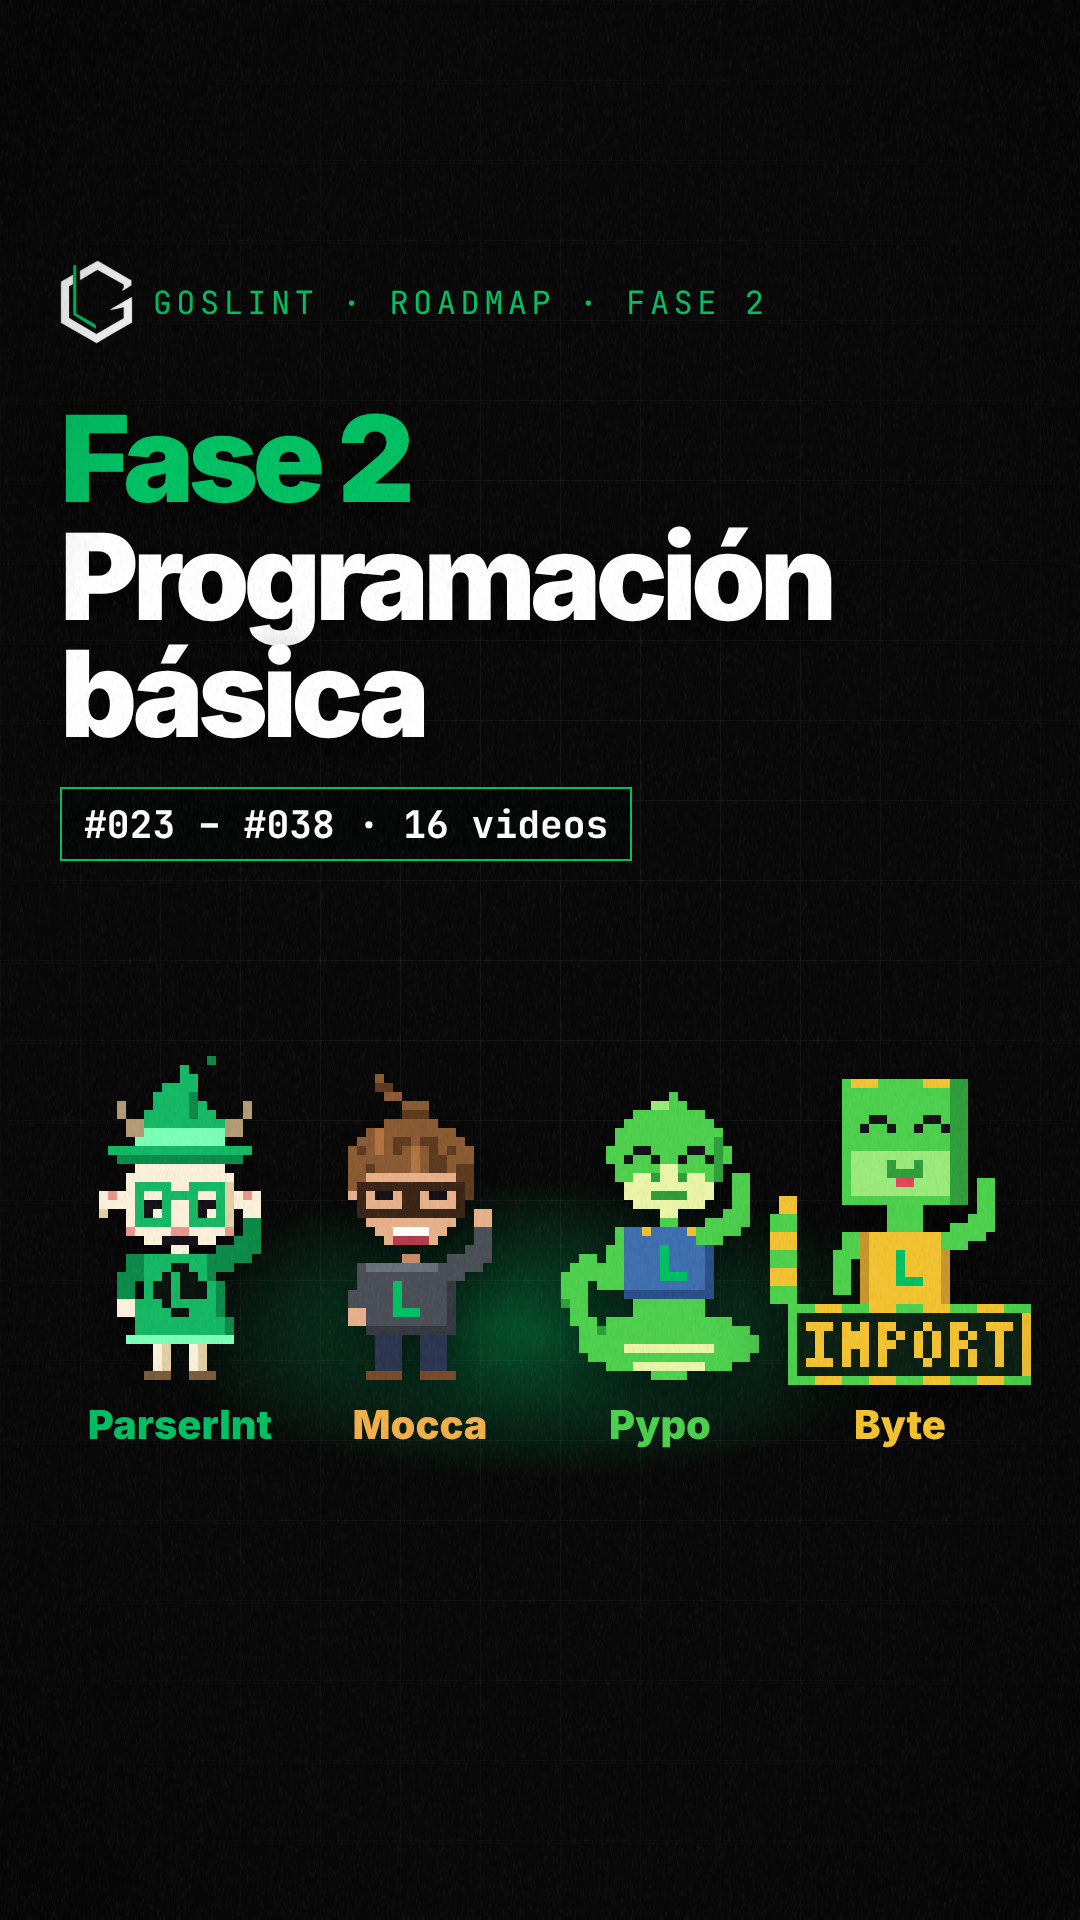
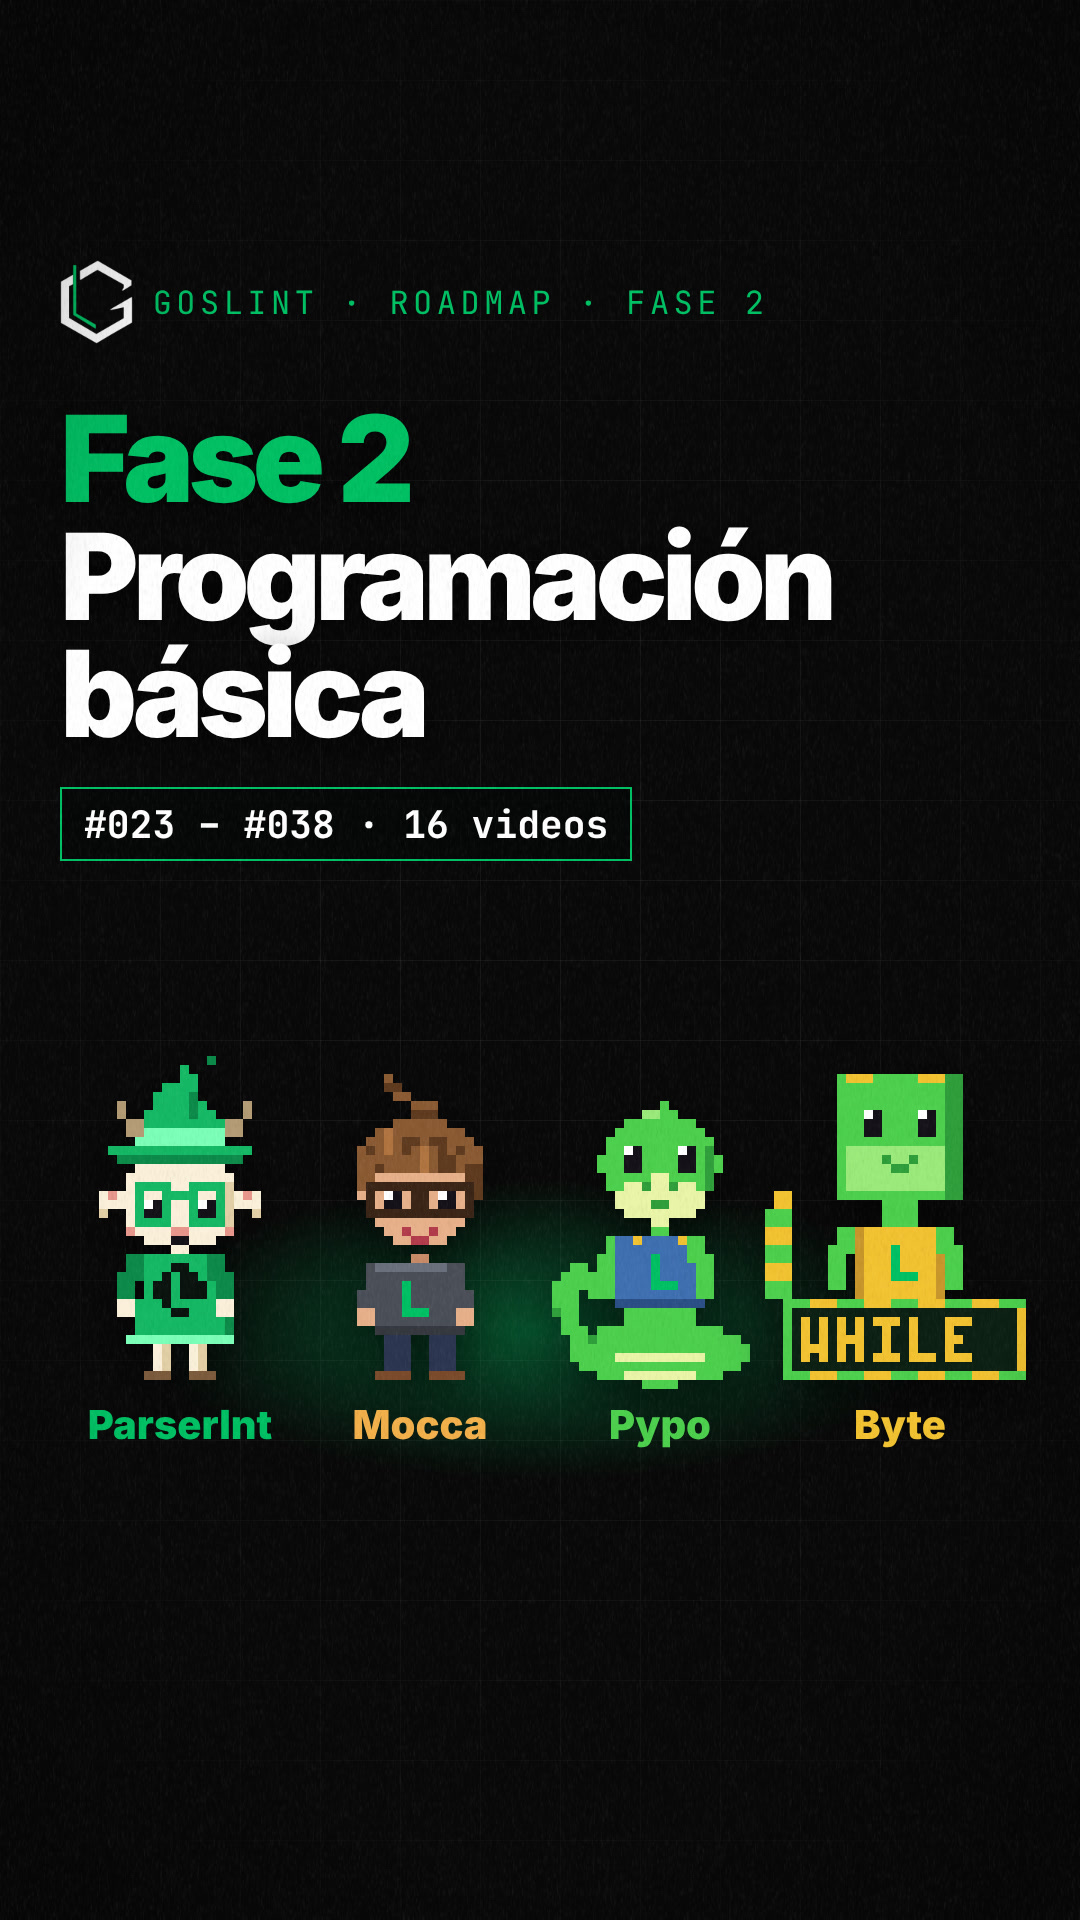
feat(video): usar las animaciones nuevas de las mascotas en los videos

Changed region(s): [[0.4889, 0.5625, 0.9778, 0.7188], [0.3056, 0.5625, 0.4583, 0.7188], [0.1833, 0.625, 0.2444, 0.6875]]

diff --git a/commons/src/mascotas.tsx b/commons/src/mascotas.tsx
@@ -2,6 +2,7 @@ import React from 'react';
 import {Img, staticFile, useCurrentFrame} from 'remotion';
 import {pop, tween} from './lib';
 import SIZES from './mascotas-sizes.json';
+import CLIPS_JSON from './mascotas-clips.json';
 
 /**
  * Las otras mascotas del universo Goslint (sprites 1x exportados del kit de la rama `mascotas`,
@@ -30,9 +31,51 @@ export const MASCOTAS: Record<MascotaId, {name: string; role: string; color: str
 
 const SZ = SIZES as unknown as Record<string, [number, number]>;
 
-/** Archivo disponible para la pose (Vee y Marco solo tienen reposo). */
+/** Sprite fijo disponible para la pose (Vee y Marco solo tienen reposo); se usa si una mascota no tiene clips. */
 export const spriteOf = (id: MascotaId, pose: MascotaPose = 'idle') => (SZ[`${id}_${pose}`] ? `${id}_${pose}` : `${id}_idle`);
 
+type Clip = {w: number; h: number; n: number; ms: number[]; ax: number; ay: number; loop: boolean; etiquetas?: string[]};
+const CLIPS = CLIPS_JSON as unknown as Record<string, Record<string, Clip>>;
+
+/** Clip que dispara cada pose al entrar la mascota (después vuelve al reposo). */
+const ACCION: Partial<Record<MascotaPose, string>> = {wave: 'saludar', cheer: 'celebrar', point: 'senalar', think: 'pensar'};
+
+/** Fotograma del clip a `t` fotogramas de video (30 fps) de su inicio; null si ya terminó (y no es bucle). */
+const clipIndex = (c: Clip, t: number): number | null => {
+	const total = c.ms.reduce((a, b) => a + b, 0);
+	let ms = (Math.max(0, t) / 30) * 1000;
+	if (ms >= total) {
+		if (!c.loop) return null;
+		ms %= total;
+	}
+	for (let i = 0; i < c.n; i++) {
+		ms -= c.ms[i];
+		if (ms < 0) return i;
+	}
+	return c.n - 1;
+};
+
+/** Un fotograma de una tira de clip, con los pies en (x, y). */
+const ClipFrame: React.FC<{id: MascotaId; name: string; i: number; x: number; y: number; scale: number; flip?: boolean; style?: React.CSSProperties}> = ({id, name, i, x, y, scale, flip, style}) => {
+	const c = CLIPS[id][name];
+	return (
+		<div style={{position: 'absolute', left: Math.round(x - (flip ? c.w - c.ax : c.ax) * scale), top: Math.round(y - c.ay * scale), width: c.w * scale, height: c.h * scale, overflow: 'hidden', pointerEvents: 'none', ...style}}>
+			<div style={{position: 'absolute', inset: 0, transform: flip ? 'scaleX(-1)' : undefined}}>
+				<Img
+					src={staticFile(`mascotas/clips/${id}/${name}.png`)}
+					style={{position: 'absolute', left: -i * c.w * scale, top: 0, width: c.w * c.n * scale, height: c.h * scale, imageRendering: 'pixelated', maxWidth: 'none'}}
+				/>
+			</div>
+		</div>
+	);
+};
+
+/**
+ * Una mascota animada con sus clips (commons/public/mascotas/clips, de commons/scripts/import_clips.py):
+ * reposo en bucle; al entrar (`at`) hace la acción de su `pose` (saludar, celebrar, señalar, pensar);
+ * mientras habla (`speaking`), la boca sigue la voz con el clip `bocas` (`talk` 0–3 = volumen).
+ * `clip` + `clipAt` fuerzan un clip concreto (p. ej. 'especial' o el gag).
+ */
 export const Mascota: React.FC<{
 	id: MascotaId;
 	pose?: MascotaPose;
@@ -45,36 +88,53 @@ export const Mascota: React.FC<{
 	at?: number;
 	/** fotograma de salida (se desvanece) */
 	out?: number;
-	/** nivel de voz 0–3: la mascota «rebota» al hablar */
+	/** nivel de voz 0–3 */
 	talk?: number;
+	/** está en su locución (aunque haya un silencio): usa las bocas; por defecto, talk > 0 */
+	speaking?: boolean;
+	clip?: string;
+	clipAt?: number;
 	flip?: boolean;
 	opacity?: number;
-}> = ({id, pose = 'idle', x, y, scale = 8, at, out, talk = 0, flip, opacity = 1}) => {
+}> = ({id, pose = 'idle', x, y, scale = 8, at, out, talk = 0, speaking, clip, clipAt, flip, opacity = 1}) => {
 	const f = useCurrentFrame();
 	if (at !== undefined && f < at - 1) return null;
 	if (out !== undefined && f >= out) return null;
-	const key = spriteOf(id, pose);
-	const [w, h] = SZ[key];
 	const p = at !== undefined ? pop(f, at, 11, 220, 0.6) : 1;
 	const o = out !== undefined ? 1 - tween(f, out - 8, out) : 1;
-	const breathe = Math.round(Math.sin(f / 9 + x) * 0.6) * scale * 0.5;
-	const sq = 1 + talk * 0.018;
+	const style: React.CSSProperties = {
+		transform: `scale(${0.6 + 0.4 * p}) translateY(${-(1 - p) * 160}px)`,
+		transformOrigin: '50% 100%',
+		opacity: Math.min(1, p * 2) * o * opacity,
+		filter: 'drop-shadow(0 18px 24px rgba(0,0,0,0.55))',
+	};
+	const set = CLIPS[id];
+	if (set) {
+		const t0 = at ?? 0;
+		let name = 'reposo';
+		let i: number | null = clipIndex(set.reposo, f - t0);
+		const forced = clip && set[clip] ? clipIndex(set[clip], f - (clipAt ?? t0)) : null;
+		const accion = ACCION[pose] && set[ACCION[pose]!] ? clipIndex(set[ACCION[pose]!], f - t0) : null;
+		if (speaking ?? talk > 0) {
+			name = 'bocas';
+			const lab = talk <= 0 ? 'cerrada' : talk === 1 ? 'media' : 'abierta';
+			i = Math.max(0, (set.bocas.etiquetas ?? []).indexOf(lab));
+		} else if (forced !== null && clip) {
+			name = clip;
+			i = forced;
+		} else if (accion !== null) {
+			name = ACCION[pose]!;
+			i = accion;
+		}
+		return <ClipFrame id={id} name={name} i={i ?? 0} x={x} y={y} scale={scale} flip={flip} style={style} />;
+	}
+	// sin clips: sprite fijo de la pose
+	const key = spriteOf(id, pose);
+	const [w, h] = SZ[key];
 	return (
 		<Img
 			src={staticFile(`mascotas/${key}.png`)}
-			style={{
-				position: 'absolute',
-				left: Math.round(x - (w * scale) / 2),
-				top: Math.round(y - h * scale - (1 - p) * 160 + breathe),
-				width: w * scale,
-				height: h * scale,
-				imageRendering: 'pixelated',
-				transform: `${flip ? 'scaleX(-1) ' : ''}scale(${(0.6 + 0.4 * p) / sq}, ${(0.6 + 0.4 * p) * sq})`,
-				transformOrigin: '50% 100%',
-				opacity: Math.min(1, p * 2) * o * opacity,
-				filter: 'drop-shadow(0 18px 24px rgba(0,0,0,0.55))',
-				pointerEvents: 'none',
-			}}
+			style={{position: 'absolute', left: Math.round(x - (w * scale) / 2), top: Math.round(y - h * scale), width: w * scale, height: h * scale, imageRendering: 'pixelated', pointerEvents: 'none', ...style, transform: `${flip ? 'scaleX(-1) ' : ''}${style.transform}`}}
 		/>
 	);
 };

diff --git a/como-usar-roadmap/src/reels/Fase2.tsx b/como-usar-roadmap/src/reels/Fase2.tsx
@@ -5,7 +5,7 @@ import {C, MONO, SANS} from '@commons/theme';
 import {POSES} from '@commons/mascot';
 import {Mascota, MASCOTAS, MascotaId} from '@commons/mascotas';
 import {Hit, In} from '@commons/vertical';
-import {M, V, talkLevel} from '../timeline';
+import {M, V, talkLevel, speakingNow} from '../timeline';
 import {FASES, hitoDe} from '../fases';
 import {PhaseCard, VideoTile} from '../parts';
 import {FINAL, VReelDef} from './frame';
@@ -46,21 +46,21 @@ const Body: React.FC = () => {
 			<Hit at={k('f2') + 2} x={540} y={560} />
 
 			{/* ParserInt (C++) entra cuando empieza su frase */}
-			<Mascota id="parserint" pose="wave" x={c0} y={FEET} scale={6} at={V.s03d.start - 4} talk={talkLevel(f, 'parserint')} />
+			<Mascota id="parserint" pose="wave" x={c0} y={FEET} scale={6} at={V.s03d.start - 4} talk={talkLevel(f, 'parserint')} speaking={speakingNow(f, 'parserint')} />
 			<Hit at={V.s03d.start - 2} x={c0} y={600} />
 			<Etiqueta at={V.s03d.start - 4} cx={c0} id="parserint" lang="C++" />
 
 			{/* Mocca (Java) */}
-			<Mascota id="mocca" pose="wave" x={c1} y={FEET} scale={6} at={V.s03e.start - 4} talk={talkLevel(f, 'mocca')} />
+			<Mascota id="mocca" pose="wave" x={c1} y={FEET} scale={6} at={V.s03e.start - 4} talk={talkLevel(f, 'mocca')} speaking={speakingNow(f, 'mocca')} />
 			<Hit at={V.s03e.start - 2} x={c1} y={600} />
 			<Etiqueta at={V.s03e.start - 4} cx={c1} id="mocca" lang="Java" />
 
 			{/* Pypo y Byte (hermanos, Python) */}
-			<Mascota id="pypo" pose="wave" x={c2} y={FEET} scale={6} at={V.s03f.start - 4} talk={talkLevel(f, 'pypo')} />
+			<Mascota id="pypo" pose="wave" x={c2} y={FEET} scale={6} at={V.s03f.start - 4} talk={talkLevel(f, 'pypo')} speaking={speakingNow(f, 'pypo')} />
 			<Hit at={V.s03f.start - 2} x={c2} y={600} />
 			<Etiqueta at={V.s03f.start - 4} cx={c2} id="pypo" lang="Python" />
 
-			<Mascota id="byte" pose="wave" x={c3} y={FEET} scale={6} at={V.s03g.start - 4} talk={talkLevel(f, 'byte')} />
+			<Mascota id="byte" pose="wave" x={c3} y={FEET} scale={6} at={V.s03g.start - 4} talk={talkLevel(f, 'byte')} speaking={speakingNow(f, 'byte')} />
 			<Hit at={V.s03g.start - 2} x={c3} y={600} />
 			<Etiqueta at={V.s03g.start - 4} cx={c3} id="byte" lang="Python" />
 

diff --git a/programacion-competitiva/src/scenes/C.tsx b/programacion-competitiva/src/scenes/C.tsx
@@ -4,6 +4,7 @@ import {C, MONO, SANS} from '@commons/theme';
 import {inCubic, inOutCubic, outCubic, pop, tween} from '@commons/lib';
 import {M, SC} from '../timeline';
 import {BlurBg, ChapterTitle, Chip, CutFlash, EventTag, GlitchBurst, GridBg, Label, Photo, Polaroid, Spot, Sprite, WipeBar} from '@commons/components';
+import {Mascota} from '@commons/mascotas';
 import {Actor} from '../kit';
 import {Emote, POSES} from '@commons/mascot';
 import {PixelBurst} from '@commons/pixel';
@@ -95,8 +96,8 @@ export const Icpc: React.FC = () => {
 					<Spot x={960} y={720} r={420} amt={0.18} squash={0.5} />
 					<div style={{position: 'absolute', left: 520, top: teamY, width: 1060, height: 12, background: '#2A322D'}} />
 					<PixelComputer x={960} y={teamY} scale={8} at={uncomp} />
-					{f >= team[1].at && <Sprite src={cheer ? 'globin_cheer.png' : f >= k('repartir') ? 'globin_point.png' : 'globin_idle.png'} x={team[1].x} y={teamY + drop(team[1].at)} w={cheer ? 19 : f >= k('repartir') ? 20 : 14} h={30} scale={8} bob={cheer ? Math.max(0, bob(1)) : 0} />}
-					{f >= team[2].at && <Sprite src="marco_idle.png" x={team[2].x} y={teamY - 10 + drop(team[2].at) - bob(2)} w={26} h={45} scale={7} flip />}
+					<Mascota id="globin" x={team[1].x} y={teamY} scale={8} at={team[1].at} clip={cheer ? 'celebrar' : f >= k('repartir') ? 'senalar' : undefined} clipAt={cheer ? k('equipo') : k('repartir')} />
+					<Mascota id="marco" x={team[2].x} y={teamY - 10} scale={7} at={team[2].at} flip clip={cheer ? 'celebrar' : undefined} clipAt={k('equipo')} />
 					<Actor x={team[0].x} y={teamY} scale={8} enter={team[0].at - 12} keys={[{at: team[0].at, pose: POSES.wow}, {at: si, pose: POSES.cheer}, {at: k('comunicarte'), pose: POSES.point}, {at: k('decidir'), pose: POSES.think}, {at: k('equipo'), pose: POSES.cheer}, {at: reloj, pose: POSES.oops}]} hops={[k('equipo') + 2]} />
 					{tasks.map((t, i) => {
 						if (f < t.at - 2 || f >= reloj) return null;

diff --git a/programacion-competitiva/src/reels/v/Icpc.tsx b/programacion-competitiva/src/reels/v/Icpc.tsx
@@ -6,6 +6,7 @@ import {M, SC} from '../../timeline';
 import {Chip, Label, Sprite} from '@commons/components';
 import {ContestClock, PixelComputer} from '@commons/parts';
 import {Key, POSES} from '@commons/mascot';
+import {Mascota} from '@commons/mascotas';
 import {FINAL, voiceParts, VReelDef} from './frame';
 import {Big, Hit, In, Kicker, PhotoV} from '@commons/vertical';
 
@@ -94,18 +95,8 @@ const Body: React.FC = () => {
 			</In>
 			{teamOn && <div style={{position: 'absolute', left: 120, top: floorY, width: 840, height: 8, background: '#2A322D'}} />}
 			{teamOn && <PixelComputer x={540} y={floorY} scale={8} at={uncomp} />}
-			{teamOn && f >= equipos + 10 && (
-				<Sprite
-					src={cheer ? 'globin_cheer.png' : f >= repartir ? 'globin_point.png' : 'globin_idle.png'}
-					x={230}
-					y={floorY + drop(equipos + 10)}
-					w={cheer ? 19 : f >= repartir ? 20 : 14}
-					h={30}
-					scale={8}
-					bob={cheer ? Math.max(0, bob(1)) : 0}
-				/>
-			)}
-			{teamOn && f >= equipos + 18 && <Sprite src="marco_idle.png" x={830} y={floorY + drop(equipos + 18)} w={26} h={45} scale={7} flip bob={cheer ? Math.max(0, bob(2)) : 0} />}
+			{teamOn && <Mascota id="globin" x={230} y={floorY} scale={8} at={equipos + 10} clip={cheer ? 'celebrar' : f >= repartir ? 'senalar' : undefined} clipAt={cheer ? equipo : repartir} />}
+			{teamOn && <Mascota id="marco" x={830} y={floorY} scale={7} at={equipos + 18} flip clip={cheer ? 'celebrar' : undefined} clipAt={equipo} />}
 			<In at={comunicarte} out={reloj - 8} x={110} y={640} from="up" exit="up" impact={false}>
 				<Bubble>¿Quién toma el B?</Bubble>
 			</In>

diff --git a/como-usar-roadmap/src/reels/Fase4.tsx b/como-usar-roadmap/src/reels/Fase4.tsx
@@ -7,7 +7,7 @@ import {Mascota} from '@commons/mascotas';
 import {Ilustracion} from '@commons/ilustraciones';
 import {ContestClock} from '@commons/parts';
 import {Big, Hit, In} from '@commons/vertical';
-import {M, V, talkLevel} from '../timeline';
+import {M, V, talkLevel, speakingNow} from '../timeline';
 import {FASES, hitoDe} from '../fases';
 import {PhaseCard, VideoTile} from '../parts';
 import {FINAL, VReelDef} from './frame';
@@ -54,7 +54,7 @@ const Body: React.FC = () => {
 			))}
 
 			{/* s03l · Marco: «Ya en C++, con los primeros concursos.» */}
-			<Mascota id="marco" x={230} y={1190} scale={9} at={V.s03l.start} out={marcoOut} talk={talkLevel(f, 'marco')} />
+			<Mascota id="marco" x={230} y={1190} scale={9} at={V.s03l.start} out={marcoOut} talk={talkLevel(f, 'marco')} speaking={speakingNow(f, 'marco')} />
 			<In at={V.s03l.start} out={marcoOut} x={360} y={770} w={660} from="left" exit="up" impact={false}>
 				<Tag at={V.s03l.start}>C++</Tag>
 				<br />
@@ -66,7 +66,7 @@ const Body: React.FC = () => {
 			<Hit at={contest + 2} x={710} y={1040} />
 
 			{/* s03m · Ringo: «Y con la cabeza fría aunque corra el reloj.» */}
-			<Mascota id="ringo" pose="think" x={800} y={1190} scale={9} at={V.s03m.start} talk={talkLevel(f, 'ringo')} />
+			<Mascota id="ringo" pose="think" x={800} y={1190} scale={9} at={V.s03m.start} talk={talkLevel(f, 'ringo')} speaking={speakingNow(f, 'ringo')} />
 			<In at={V.s03m.start} x={60} y={470} w={960} from="up">
 				<Big size={96}>
 					Cabeza <span style={{color: C.green}}>fría</span>

diff --git a/como-usar-roadmap/src/reels/Fase3.tsx b/como-usar-roadmap/src/reels/Fase3.tsx
@@ -4,7 +4,7 @@ import {POSES} from '@commons/mascot';
 import {Mascota} from '@commons/mascotas';
 import {Ilustracion} from '@commons/ilustraciones';
 import {Big, Hit, In} from '@commons/vertical';
-import {M, V, talkLevel} from '../timeline';
+import {M, V, talkLevel, speakingNow} from '../timeline';
 import {FASES, hitoDe} from '../fases';
 import {PhaseCard, VideoTile} from '../parts';
 import {FINAL, VReelDef} from './frame';
@@ -36,7 +36,7 @@ const Body: React.FC = () => {
 			<Hit at={k('f3') + 2} x={540} y={560} />
 
 			{/* Polo entra en la palabra «Polo» y habla de una estructura a la vez */}
-			<Mascota id="polo" x={800} y={1180} scale={11} at={polo} out={moca - 2} talk={talkLevel(f, 'polo')} />
+			<Mascota id="polo" x={800} y={1180} scale={11} at={polo} out={moca - 2} talk={talkLevel(f, 'polo')} speaking={speakingNow(f, 'polo')} />
 			<Hit at={polo + 2} x={800} y={950} big />
 			<In at={sinPrisa - 6} out={moca - 2} x={60} y={450} w={960} from="up" exit="left">
 				<Big size={64}>
@@ -50,7 +50,7 @@ const Body: React.FC = () => {
 			))}
 
 			{/* Mocca entra en su frase: la programación orientada a objetos */}
-			<Mascota id="mocca" x={260} y={1180} scale={11} at={moca} talk={talkLevel(f, 'mocca')} />
+			<Mascota id="mocca" x={260} y={1180} scale={11} at={moca} talk={talkLevel(f, 'mocca')} speaking={speakingNow(f, 'mocca')} />
 			<Hit at={moca + 2} x={260} y={950} big />
 			<In at={moca} x={60} y={450} w={960} from="up" impact={false}>
 				<Big size={64}>

diff --git a/como-usar-roadmap/src/reels/Fase7.tsx b/como-usar-roadmap/src/reels/Fase7.tsx
@@ -6,7 +6,7 @@ import {POSES} from '@commons/mascot';
 import {Mascota} from '@commons/mascotas';
 import {Ilustracion} from '@commons/ilustraciones';
 import {Hit, In} from '@commons/vertical';
-import {M, V, talkLevel} from '../timeline';
+import {M, V, talkLevel, speakingNow} from '../timeline';
 import {FASES, hitoDe} from '../fases';
 import {PhaseCard, VideoTile} from '../parts';
 import {FINAL, VReelDef} from './frame';
@@ -63,11 +63,11 @@ const Body: React.FC = () => {
 			))}
 
 			{/* Diego (coach) entra al empezar su locución */}
-			<Mascota id="diego" x={760} y={1180} scale={8} at={dieg - 6} talk={talkLevel(f, 'diego')} />
+			<Mascota id="diego" x={760} y={1180} scale={8} at={dieg - 6} talk={talkLevel(f, 'diego')} speaking={speakingNow(f, 'diego')} />
 			<Hit at={dieg - 4} x={800} y={1000} />
 
 			{/* Globín entra con su locución; sube un poco en «despega» */}
-			<Mascota id="globin" x={945} y={1180 - rise} scale={7} at={V.s03t.start} talk={talkLevel(f, 'globin')} />
+			<Mascota id="globin" x={945} y={1180 - rise} scale={7} at={V.s03t.start} talk={talkLevel(f, 'globin')} speaking={speakingNow(f, 'globin')} />
 
 			{/* Hito #099 al pronunciarse «despega» */}
 			<In at={despega} x={60} y={1112} w={560} from="left">

diff --git a/como-usar-roadmap/src/reels/Fase5.tsx b/como-usar-roadmap/src/reels/Fase5.tsx
@@ -5,7 +5,7 @@ import {POSES} from '@commons/mascot';
 import {Mascota} from '@commons/mascotas';
 import {Ilustracion} from '@commons/ilustraciones';
 import {Big, Hit, In} from '@commons/vertical';
-import {M, V, talkLevel} from '../timeline';
+import {M, V, talkLevel, speakingNow} from '../timeline';
 import {FASES, hitoDe} from '../fases';
 import {PhaseCard, VideoTile} from '../parts';
 import {FINAL, VReelDef} from './frame';
@@ -50,7 +50,7 @@ const Body: React.FC = () => {
 			<Hit at={k('f5') + 2} x={360} y={560} />
 
 			{/* Velasco entra al final de la frase de Lint */}
-			<Mascota id="velasco" pose="wave" x={860} y={720} scale={9} at={velasco} talk={talkLevel(f, 'velasco')} />
+			<Mascota id="velasco" pose="wave" x={860} y={720} scale={9} at={velasco} talk={talkLevel(f, 'velasco')} speaking={speakingNow(f, 'velasco')} />
 			<Hit at={velasco + 2} x={860} y={520} big />
 
 			{/* Tres bloques, cada uno en su marca de voz */}

diff --git a/como-usar-roadmap/src/reels/Fase1.tsx b/como-usar-roadmap/src/reels/Fase1.tsx
@@ -6,7 +6,7 @@ import {POSES} from '@commons/mascot';
 import {Mascota} from '@commons/mascotas';
 import {Ilustracion} from '@commons/ilustraciones';
 import {Big, Hit, In} from '@commons/vertical';
-import {M, V, talkLevel} from '../timeline';
+import {M, V, talkLevel, speakingNow} from '../timeline';
 import {FASES, hitoDe} from '../fases';
 import {PhaseCard, VideoTile} from '../parts';
 import {FINAL, VReelDef} from './frame';
@@ -46,7 +46,7 @@ const Body: React.FC = () => {
 			</In>
 			<Hit at={k('f1') + 2} x={540} y={560} />
 			{/* Vee entra cuando empieza su frase */}
-			<Mascota id="vee" x={800} y={1180} scale={11} at={vee} talk={talkLevel(f, 'vee')} />
+			<Mascota id="vee" x={800} y={1180} scale={11} at={vee} talk={talkLevel(f, 'vee')} speaking={speakingNow(f, 'vee')} />
 			<Hit at={vee + 2} x={800} y={950} big />
 			<In at={vee} x={60} y={450} w={960} from="up" impact={false}>
 				<Big size={64}>

diff --git a/como-usar-roadmap/src/reels/Fase6.tsx b/como-usar-roadmap/src/reels/Fase6.tsx
@@ -6,7 +6,7 @@ import {POSES} from '@commons/mascot';
 import {Mascota} from '@commons/mascotas';
 import {Ilustracion} from '@commons/ilustraciones';
 import {Big, Hit, In} from '@commons/vertical';
-import {M, V, talkLevel} from '../timeline';
+import {M, V, talkLevel, speakingNow} from '../timeline';
 import {FASES, hitoDe} from '../fases';
 import {PhaseCard, VideoTile} from '../parts';
 import {FINAL, VReelDef} from './frame';
@@ -50,7 +50,7 @@ const Body: React.FC = () => {
 				<PhaseCard fa={FA} w={960} />
 			</In>
 			{/* DaRu entra cuando empieza su frase */}
-			<Mascota id="daru" x={540} y={812} scale={10} at={q} talk={talkLevel(f, 'daru')} />
+			<Mascota id="daru" x={540} y={812} scale={10} at={q} talk={talkLevel(f, 'daru')} speaking={speakingNow(f, 'daru')} />
 			{TEMAS.map((t, i) => {
 				const v = FA.videos.find((x) => x.n === t.n)!;
 				return (

diff --git a/como-usar-roadmap/src/scenes/B.tsx b/como-usar-roadmap/src/scenes/B.tsx
@@ -159,7 +159,7 @@ export const Guias: React.FC = () => {
 							const scale = b.guides.length >= 4 ? 6 : 7;
 							return (
 								<React.Fragment key={gd.id + i}>
-									<Mascota id={gd.id} pose={gd.pose} x={x} y={900} scale={scale} at={gd.at} out={b.to} talk={talk} />
+									<Mascota id={gd.id} pose={gd.pose} x={x} y={900} scale={scale} at={gd.at} out={b.to} talk={talk} speaking={!!(gd.seg && f >= V[gd.seg].start && f < V[gd.seg].end)} />
 									<div style={{position: 'absolute', left: x - 120, width: 240, top: 930, textAlign: 'center', opacity: Math.min(1, pn * 2), transform: `translateY(${(1 - pn) * 20}px)`}}>
 										<div style={{fontFamily: SANS, fontWeight: 860, fontSize: 34, color: talk > 0 ? m.color : C.white, letterSpacing: '-0.02em'}}>{m.name}</div>
 									</div>

diff --git a/como-usar-roadmap/src/timeline.ts b/como-usar-roadmap/src/timeline.ts
@@ -99,6 +99,9 @@ export const talkLevel = (f: number, who = 'lint'): number => {
 	return 0;
 };
 
+/** ¿Está `who` dentro de una de sus locuciones en el fotograma f? (aunque sea un silencio entre palabras) */
+export const speakingNow = (f: number, who: string): boolean => SEG_IDS.some((id) => speakerOf(id) === who && f >= V[id].start && f < V[id].end);
+
 /** Capítulos para el HUD. */
 export const CHAPTERS: {scene: SceneId; n: string; label: string}[] = [
 	{scene: 'intro', n: '00', label: 'goslint'},
